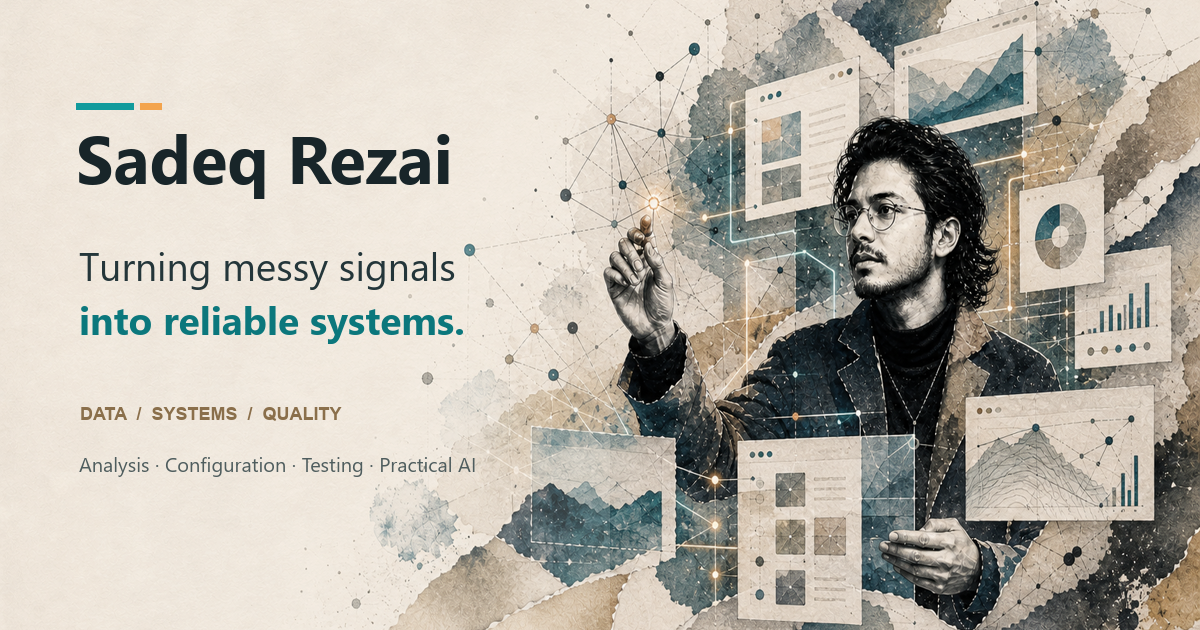
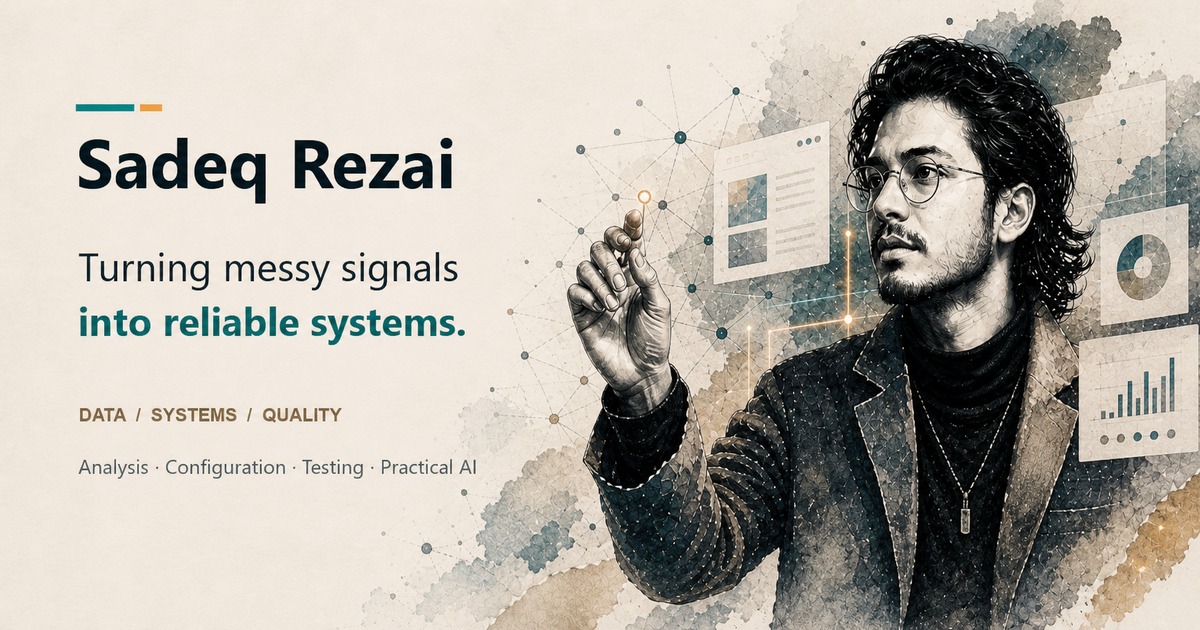
Refresh portfolio social preview

diff --git a/index.html b/index.html
@@ -17,7 +17,7 @@
     <meta property="og:type" content="website">
     <meta property="og:title" content="Sadeq Rezai | Systems, Data & Quality">
     <meta property="og:description" content="Turning messy signals into reliable systems through analysis, configuration, testing, and thoughtful web development.">
-    <meta property="og:image" content="https://rammeshgar.github.io/img/social-preview.png?v=20260819">
+    <meta property="og:image" content="https://rammeshgar.github.io/img/social-preview.png?v=20260820">
     <meta property="og:image:width" content="1200">
     <meta property="og:image:height" content="630">
     <meta property="og:image:alt" content="Sadeq Rezai — Systems, Data & Quality">
@@ -25,7 +25,7 @@
     <meta name="twitter:card" content="summary_large_image">
     <meta name="twitter:title" content="Sadeq Rezai | Systems, Data & Quality">
     <meta name="twitter:description" content="Configuration, testing, data systems, and practical AI—connected through thoughtful engineering.">
-    <meta name="twitter:image" content="https://rammeshgar.github.io/img/social-preview.png?v=20260819">
+    <meta name="twitter:image" content="https://rammeshgar.github.io/img/social-preview.png?v=20260820">
     <meta name="twitter:image:alt" content="Sadeq Rezai — Systems, Data & Quality">
 
     <link rel="preload" as="font" href="fonts/space-grotesk-latin.woff2" type="font/woff2" crossorigin>
